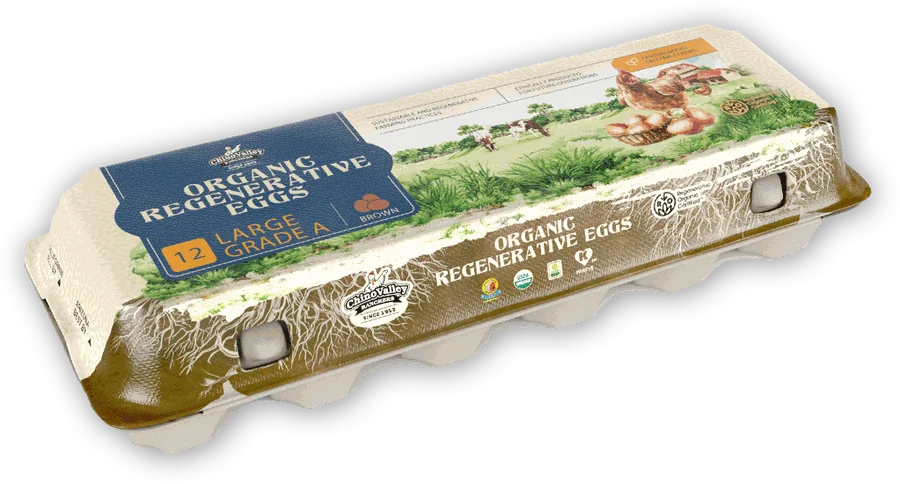
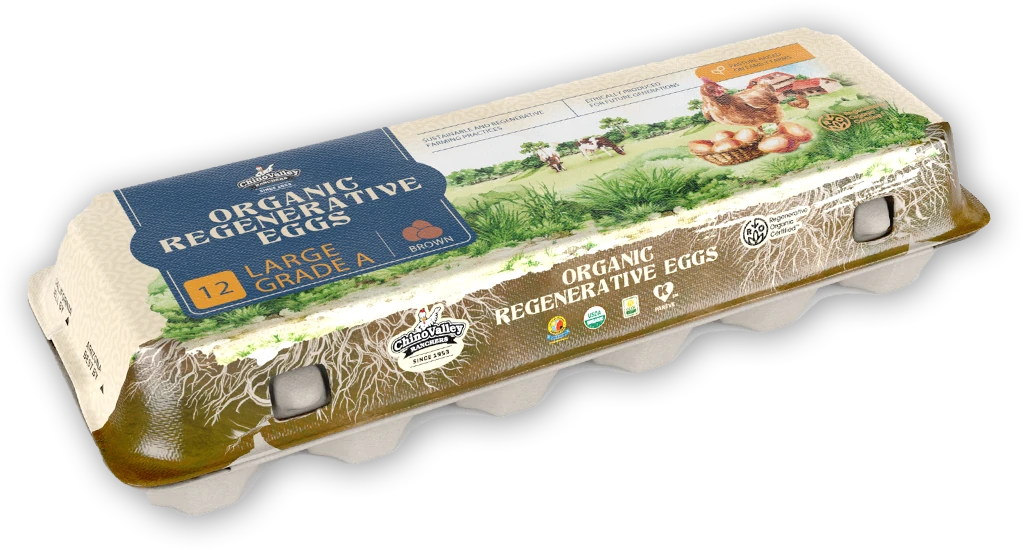
Regenerative WI-21: polish batch
- Hero: bg-[#006088] (a no-op in Tailwind 2.2.19) replaced with an inline
  background; 1200w hero photo via srcSet for phones, fetchpriority=high.
- carton.webp re-exported at 1023x550 from the .fig source (same crop as
  the 900w file, alpha identical when resized; placements unchanged).
- Section 2 arrows loading=lazy: no longer downloaded on phones, where hidden.
  sec2test's artwork check scoped to shown arrows.
- Photo row: the stacked pair's photograph painted once on their column, so
  the windows show adjacent slices (114 of 150 source rows repeated at 390).
  sec5test/sec5tilestest read the painting element; the cover check no
  longer passes on NaN.
- sections.py: band 8 is 7039..7686 (was a plane starting in section 7);
  leaves assigned to one band by core (36 were double-counted).
  regenerative-geometry.md regenerated.
New secpolishtest.js.

Deferred: desktop standards body size (gated), phone video caption (Q13),
footer/nav tap targets (Q11), photo-row top tear (low confidence).

Claude-Session: https://claude.ai/code/session_01LWByyercuKycdp4f9PRau2

diff --git a/scripts/qa/regen/secpolishtest.js b/scripts/qa/regen/secpolishtest.js
@@ -1,0 +1,52 @@
+// Review item WI-21: the independent polish batch.
+const { chromium } = require('playwright');
+const R=[];const ck=(n,p,d='')=>{R.push(p);console.log(`${p?'PASS':'FAIL'}  ${n}${d?' — '+d:''}`)};
+(async()=>{
+  const b=await chromium.launch();
+  for(const [w,dpr] of [[390,3],[1440,2]]){
+    const p=await b.newContext({viewport:{width:w,height:900},deviceScaleFactor:dpr}).then(c=>c.newPage());
+    const reqs=[];p.on('request',r=>reqs.push(r.url()));
+    await p.goto('http://localhost:7500/regenerative',{waitUntil:'networkidle',timeout:60000});
+    await p.getByRole('region',{name:/cookie consent/i}).getByRole('button',{name:/reject all/i}).click().catch(()=>{});
+    const hh=await p.evaluate(()=>document.body.scrollHeight);
+    for(let y=0;y<hh;y+=600){await p.evaluate(v=>scrollTo(0,v),y);await p.waitForTimeout(60);}
+    await p.waitForTimeout(800);
+    const m=await p.evaluate(()=>{
+      const hero=document.querySelector('img[src*="hero-cattle"]');
+      const carton=document.querySelector('.regen-hero-carton');
+      // Photo-row stacked pair: which rows of the shared photograph does each
+      // window show? The photo is painted by the window or by its column.
+      const wins=[...document.querySelectorAll('[role="img"]')].filter(e=>/ranging among trees|plumage/i.test(e.getAttribute('aria-label')));
+      const rows=wins.map(win=>{
+        const painter=/row-hen-c/.test(getComputedStyle(win).backgroundImage)?win:win.parentElement;
+        const cs=getComputedStyle(painter), E=painter.getBoundingClientRect(), W=win.getBoundingClientRect();
+        const imgW=E.width*parseFloat(cs.backgroundSize)/100, scale=imgW/1306, imgH=734*scale;
+        const off=(E.height-imgH)*parseFloat(cs.backgroundPositionY)/100;
+        return [(W.top-E.top-off)/scale,(W.bottom-E.top-off)/scale];
+      });
+      const shared=rows.length===2?Math.max(0,Math.min(rows[0][1],rows[1][1])-Math.max(rows[0][0],rows[1][0])):-1;
+      return {heroBg:getComputedStyle(hero.closest('section')).backgroundColor,
+        heroW:hero.naturalWidth, heroSrc:(hero.currentSrc||'').split('/').pop(),
+        prio:hero.getAttribute('fetchpriority'),
+        cartonW:carton.naturalWidth,
+        arrows:[...document.querySelectorAll('img[src*="arrow-hear"],img[src*="arrow-more"]')].map(a=>({src:a.getAttribute('src').split('/').pop(),shown:getComputedStyle(a).display!=='none',ok:a.complete&&a.naturalWidth>0,lazy:a.getAttribute('loading')})),
+        shared:Math.round(shared), wins:wins.length};
+    });
+    console.log(`\n  --- ${w}px DPR${dpr} ---`);
+    ck(`hero section paints its own blue at ${w}`, m.heroBg==='rgb(0, 96, 136)', m.heroBg);
+    ck(`hero photo marked fetchpriority=high`, m.prio==='high', String(m.prio));
+    // By the file chosen, not naturalWidth: with a srcset that reports the
+    // density-corrected size (1440 at 1440), not the file's pixels.
+    if(w===390) ck('phone downloads the 1200w hero photo', m.heroSrc==='hero-cattle-1200.jpg', m.heroSrc);
+    else ck('desktop keeps the full-size hero photo', m.heroSrc==='hero-cattle.jpg', m.heroSrc);
+    ck(`carton from the 1023px source at ${w}`, m.cartonW===1023, `${m.cartonW}w`);
+    const arrowReqs=reqs.filter(u=>/arrow-(hear|more)\.png/.test(u));
+    if(w===390) ck('hidden annotation arrows are not downloaded on a phone', arrowReqs.length===0, arrowReqs.map(u=>u.split('/').pop()).join(','));
+    else ck('annotation arrows load where they are shown', m.arrows.length===2&&m.arrows.every(a=>a.shown&&a.ok), JSON.stringify(m.arrows.map(a=>a.ok)));
+    ck(`stacked photo windows show different parts of the shot at ${w}`, m.wins===2&&m.shared===0, `${m.shared} source rows shared`);
+    await p.close();
+  }
+  await b.close();
+  const f=R.filter(x=>!x).length;
+  console.log(`\n${R.length-f}/${R.length} passed`);
+})();

diff --git a/scripts/qa/regen/sec5tilestest.js b/scripts/qa/regen/sec5tilestest.js
@@ -36,8 +36,13 @@ const R=[];const ck=(n,p,d='')=>{R.push(p);console.log(`${p?'PASS':'FAIL'}  ${n}
                 over:Math.max(g.top-r.top, r.bottom-g.bottom)};
       });
       // Shared shot is 1306x734; size is a % of the window width.
+      // Read from whichever element paints the shot: the window itself, or
+      // (for the stacked pair, WI-21) the column it is an opening onto. Reading
+      // the window alone gave NaN once its own background went, and NaN never
+      // counts as "too thin" -- the check passed with nothing to measure.
       const cover=[...grid.querySelectorAll('[role="img"]')].map(e=>{
-        const r=e.getBoundingClientRect(); const cs=getComputedStyle(e);
+        const painter=/row-hen-c/.test(getComputedStyle(e).backgroundImage)?e:e.parentElement;
+        const r=painter.getBoundingClientRect(); const cs=getComputedStyle(painter);
         const pct=parseFloat(cs.backgroundSize)/100;
         return {rendered:+(r.width*pct*734/1306).toFixed(1), box:+r.height.toFixed(1)};
       });
@@ -46,7 +51,7 @@ const R=[];const ck=(n,p,d='')=>{R.push(p);console.log(`${p?'PASS':'FAIL'}  ${n}
     console.log(`  --- ${w}px (grid ${m.gridH}px tall) ---`);
     const worst=m.tiles.reduce((a,t)=>t.over>a.over?t:a,{over:-1e9});
     ck(`${w}: every tile inside the photo grid`, worst.over<=1, `worst ${worst.name} ${worst.over.toFixed(1)}px past the grid`);
-    const thin=m.cover.filter(c=>c.rendered<c.box-0.5);
+    const thin=m.cover.filter(c=>!(c.rendered>=c.box-0.5));
     ck(`${w}: shared photograph covers every window`, thin.length===0,
        thin.map(c=>`${c.rendered}px drawn in a ${c.box}px window`).join(', ')||'all covered');
     await p.close();

diff --git a/components/regenerative/ImageGrid.js b/components/regenerative/ImageGrid.js
@@ -150,21 +150,22 @@ export function ImageGrid() {
             background-position, so the photograph is continuous behind them. */}
         <div />
 
+        {/* The stacked pair's photograph is painted ONCE, on their column,
+            and the two windows are openings onto it. Painted per window, each
+            fitted its own box: at 390 the boxes are 55px wide and the shot is
+            sized by width, so both windows showed nearly the same rows of it
+            (114 of 150 shared) -- the bird repeated, one above the other. On
+            the column the two are adjacent slices of one picture at every
+            width, which is what the design's single clipping frame does. The
+            1.36fr split between them is covered by the frame's own rule. */}
         <div
           className="grid"
-          style={{ height: BAND, gridTemplateRows: "50.11fr 1.36fr 48.53fr", gap: 0 }}
+          style={{ height: BAND, gridTemplateRows: "50.11fr 1.36fr 48.53fr", gap: 0,
+                   ...SHOT("481.92%", "24.06%", "61%") }}
         >
-          <div
-            role="img"
-            aria-label="Hens ranging among trees"
-            style={SHOT("481.92%", "24.06%", "34.96%")}
-          />
+          <div role="img" aria-label="Hens ranging among trees" />
           <div />
-          <div
-            role="img"
-            aria-label="A hen's plumage in close detail"
-            style={SHOT("481.92%", "24.06%", "78.42%")}
-          />
+          <div role="img" aria-label="A hen's plumage in close detail" />
         </div>
 
         <div />

diff --git a/components/regenerative/Hero.js b/components/regenerative/Hero.js
@@ -13,7 +13,12 @@ import { TornEdge } from './TornEdge';
    lettering needs no artwork. */
 export function RegenerativeHero() {
   return (
-    <section className="relative overflow-hidden bg-[#006088]">
+    <section
+      className="relative overflow-hidden"
+      /* Inline, not bg-[#006088]: Tailwind 2.2.19 has no arbitrary values, so
+         that class compiled to nothing and the section was transparent. */
+      style={{ backgroundColor: "#006088" }}
+    >
       {/* Everything in this band is positioned from the Figma node tree
           (file muIeDVJN5mgz3Ep0hualTF, artboard 5:5 = 2075 x 8469), as a
           percentage of the artboard WIDTH so the whole composition scales
@@ -67,6 +72,13 @@ export function RegenerativeHero() {
             opaque, and .regen-hero-photo starts the photograph under it. */}
         <img
           src="/images/regen/hero-cattle.jpg"
+          /* A 1200w source for phones: at 390 DPR3 the full 2376px photo was
+             downloaded for a 1170px need. fetchpriority is lowercase because
+             React 18 passes unknown lowercase attributes through but warns on
+             fetchPriority. It is the page's LCP image. */
+          srcSet="/images/regen/hero-cattle-1200.jpg 1200w, /images/regen/hero-cattle.jpg 2376w"
+          sizes="100vw"
+          fetchpriority="high"
           alt=""
           aria-hidden="true"
           className="absolute inset-0 w-full h-full object-cover regen-hero-photo"

diff --git a/scripts/qa/regen/sec2test.js b/scripts/qa/regen/sec2test.js
@@ -29,7 +29,9 @@ const R=[];const ck=(n,p,d='')=>{R.push(p);console.log(`${p?'PASS':'FAIL'}  ${n}
               framePct:+(fr.width/innerWidth*100).toFixed(1),
               aspect:+(fr.width/fr.height).toFixed(3),
               stillOK:still.complete&&still.naturalWidth>0,
-              anns:anns.length, annOK:arrows.length===2&&arrows.every(a=>a.complete&&a.naturalWidth>0),
+              anns:anns.length, // Shown arrows must load. Hidden ones are loading="lazy" and are
+              // deliberately never fetched on a phone (WI-21, secpolishtest).
+              annOK:arrows.length===2&&arrows.every(a=>getComputedStyle(a).display==='none'||(a.complete&&a.naturalWidth>0)),
               annVisible:anns.filter(a=>a.getBoundingClientRect().width>0).length,
               // "You want more?" sits on the paper OUTSIDE the frame in the
               // design, with a small gap past the right edge. Assert the

diff --git a/scripts/qa/regen/sec5test.js b/scripts/qa/regen/sec5test.js
@@ -47,7 +47,10 @@ const R = []; const ck = (n, p, d = '') => { R.push(p); console.log(`${p ? 'PASS
         // bird consistent -- they differ only because the boxes differ
         windowsShareShot:(()=>{const w=[...row.querySelectorAll('[role="img"]')];
           if(w.length!==3) return false;
-          return w.every(d=>/row-hen-c/.test(getComputedStyle(d).backgroundImage));})(),
+          // The window or the column it opens onto (the stacked pair share
+          // one painted shot on their column -- WI-21).
+          return w.every(d=>/row-hen-c/.test(getComputedStyle(d).backgroundImage)
+                         || /row-hen-c/.test(getComputedStyle(d.parentElement).backgroundImage));})(),
         // the frame draws its own gutters; a grid gap on top of them is what
         // stood proud of the row
         gridGap: (()=>{const g=row.querySelector('.grid');

diff --git a/components/regenerative/WhatIs.js b/components/regenerative/WhatIs.js
@@ -172,6 +172,7 @@ export function WhatIs() {
             </div>
             <img
               src="/images/regen/arrow-hear.png"
+              loading="lazy"
               alt=""
               aria-hidden="true"
               className="absolute hidden sm:block"
@@ -204,6 +205,7 @@ export function WhatIs() {
           </div>
           <img
             src="/images/regen/arrow-more.png"
+            loading="lazy"
             alt=""
             aria-hidden="true"
             className="absolute hidden md:block"

diff --git a/scripts/qa/regen/fig/sections.py b/scripts/qa/regen/fig/sections.py
@@ -4,8 +4,18 @@ import sys; sys.path.insert(0,_HERE)
 from geom import *
 
 # Section seams read off the full-width background planes. Each entry is
-# (y_start, y_end, label). Ends are the next section's start, so the bands
-# tile the artboard with no gaps.
+# (y_start, y_end, label): the extent of the band's own background plane.
+# Those planes overlap -- each runs under its neighbours' torn edges -- so the
+# extents do NOT tile the artboard, and a leaf assigned by "centre inside the
+# extent" landed in two bands at every seam (36 leaves double-counted). Leaves
+# are now assigned by in_band below, against the band's CORE: its start to the
+# next band's start. Extents are still what the report measures against.
+#
+# Band 8 was (6441, 7951), read off "Layer 2 copy 4", a plane that starts
+# inside section 7: it put the callouts and the eggs photo in the pre-footer
+# and gave it a 1510px height. The pre-footer's own band is 7039..7686 (647px,
+# aspect 3.21 -- 449px at 1440, so the built 432px is about 4% short, not the
+# +4.9% the old table implied). Review item WI-21.
 SEAMS = [
     (   0.0, 1326.0, '1  HERO'),
     ( 802.0, 2165.0, '2  WHAT IS REGENERATIVE'),
@@ -14,7 +24,7 @@ SEAMS = [
     (3808.0, 4592.0, '5  PHOTO ROW'),
     (4275.0, 5718.0, '6  HIGHEST STANDARDS'),
     (5513.0, 6988.5, '7  WHAT MAKES REGEN DIFFERENT'),
-    (6441.0, 7951.0, '8  PRE FOOTER'),
+    (7039.0, 7686.0, '8  PRE FOOTER'),
     (7686.0, 8481.0, '9  FOOTER'),
 ]
 
@@ -31,7 +41,16 @@ def all_leaves():
                         type=n.get('type'),id=d))
     return sorted(out,key=lambda r:(r['y'],r['x']))
 
+def core(y0):
+    """The band starting at y0 owns y0 up to the next band's start."""
+    starts = sorted(b[0] for b in SEAMS)
+    nxt = [v for v in starts if v > y0]
+    return y0, (nxt[0] if nxt else float('inf'))
+
 def in_band(r, y0, y1):
-    """A leaf belongs to the band its own centre falls inside."""
+    """A leaf belongs to exactly one band: the one whose core holds its
+    centre. y1 is accepted for the callers' signature but the extent is not
+    used for assignment -- extents overlap."""
+    c0, c1 = core(y0)
     cy = r['y'] + r['h']/2
-    return y0 <= cy < y1
+    return c0 <= cy < c1

diff --git a/docs/regenerative-geometry.md b/docs/regenerative-geometry.md
@@ -6,64 +6,6 @@ Do not hand-edit; re-run the script instead.
 Artboard **2075 x 8469**. All raw numbers are design pixels.
 
 
-## How this was produced
-
-The Figma MCP is unavailable on this engagement: the account holds a View seat
-on the client's Professional plan, which allows 6 tool calls per *month*, and
-they are spent. So the geometry comes from the `.fig` itself.
-
-`canvas.fig` is a fig-kiwi container -- 8-byte magic, uint32 version, then
-length-prefixed blocks. Block 0 is the schema as raw zlib (-15 window); block 1
-is the document as ZSTD. `strings` finds nothing in either, which is not
-evidence they cannot be read. Kiwi encodes floats as the IEEE bits rotated LEFT
-by 9, so the exponent lands in the first byte and a lone 0x00 encodes 0.0;
-decoded as plain little-endian floats they come out around 1e33, which reads as
-a corrupt file rather than a codec mismatch.
-
-Section seams come from the full-width background planes (`Layer 52`,
-`Layer 53`, `Bg shape`, `TEXTURE BG` and friends), not the frame hierarchy --
-the band frames are oversized clipping wrappers, several spanning most of the
-artboard, so their own x/y/w/h say nothing about where a section sits. Each leaf
-is filed under the band its centre falls in. Bands overlap on purpose, because
-the torn paper edges straddle the seams.
-
-**Validation:** this file independently reproduces every value derived by hand
-for section 2 -- frame strokes at 53.69% and 53.98%, video frame 54.70%, heading
-74.07%, "You want more?" at x1608 against a frame edge at x1605. Those were
-confirmed correct in the browser before this document existed.
-
-## Reading the numbers
-
-`w%` is a share of the artboard width and goes straight into CSS. `top%` and
-`h%` are shares of the band's own height. Do not cross the two: a percentage
-`top` resolves against the container's HEIGHT, so design Y values expressed as a
-share of artboard *width* land high by exactly the band's aspect ratio. That one
-error put every element in the hero too high on the first build.
-
-Sizing needs both dimensions. Section 2's annotation lockups sat at the correct
-left/top/width for four rounds while being 1.7x too tall, because nothing
-asserted height. Check `h%` as well as `w%`.
-
-## Where the build currently stands
-
-Live section height / design height, measured at 1440 (see `scripts/qa/regen/`):
-
-| section | design h/2075 | live | match |
-|---|--:|--:|--:|
-| 1 Hero | 0.639 | 0.633 | 99% |
-| 2 What is Regenerative | 0.657 | 0.516 | 79% |
-| 3 Regen Agriculture | 0.608 | 0.366 | 60% |
-| 4 The Next Generation | 0.657 | 0.479 | 73% |
-| 5 Photo Row | 0.378 | 0.135 | 36% |
-| 6 Highest Standards | 0.695 | 0.528 | 76% |
-| 7 What Makes Regen Different | 0.711 | 0.832 | 86% (too tall) |
-| 8 Pre Footer | 0.728 | 0.300 | 41% |
-
-Only the hero is within tolerance. Sections 3-9 were built from the flattened
-render with width-only checks, and every one of them is materially short except
-section 7, which overshoots. These are vertical-rhythm errors, not content
-errors -- the sections are all present, they are compressed.
-
 ## 1  HERO
 
 Band y 0..1326, height **1326** (artboard/band aspect 1.565).
@@ -91,12 +33,6 @@ Share of artboard: top 0.00%, height 15.66%.
 | welcome to | TEXT | 738 | 336 | 500 | 59 | 35.57 | 24.10 | 25.35 | 4.45 |
 | Rectangle 9 | VECTOR | 708 | 543 | 742 | 70 | 34.12 | 35.76 | 40.95 | 5.28 |
 | Organic Regenerative Eggs | TEXT | 722 | 557 | 750 | 45 | 34.80 | 36.14 | 41.97 | 3.39 |
-| new carton | ROUNDED_RECTANGLE | 560 | 591 | 1023 | 550 | 26.99 | 49.30 | 44.57 | 41.48 |
-| new carton | ROUNDED_RECTANGLE | 587 | 617 | 965 | 491 | 28.29 | 46.51 | 46.53 | 37.03 |
-| Layer 28 copy 2 | ROUNDED_RECTANGLE | 319 | 934 | 206 | 226 | 15.37 | 9.93 | 70.44 | 17.04 |
-| Shape 5 | VECTOR | 1618 | 948 | 208 | 196 | 77.99 | 10.03 | 71.53 | 14.81 |
-| Shape 6 | VECTOR | 1375 | 961 | 203 | 164 | 66.25 | 9.78 | 72.46 | 12.34 |
-| What is regenerative? | TEXT | 257 | 1165 | 1537 | 93 | 12.38 | 74.07 | 87.84 | 7.01 |
 
 ## 2  WHAT IS REGENERATIVE
 
@@ -122,9 +58,6 @@ Share of artboard: top 9.47%, height 16.09%.
 | Shape 4 copy 4 | VECTOR | 1172 | 1543 | 143 | 129 | 56.48 | 6.89 | 54.36 | 9.47 |
 | Layer 77 | ROUNDED_RECTANGLE | 994 | 1600 | 167 | 167 | 47.90 | 8.05 | 58.55 | 12.25 |
 | Ellipse 5 | VECTOR | 1002 | 1609 | 143 | 143 | 48.29 | 6.89 | 59.21 | 10.49 |
-| You want more? | TEXT | 1608 | 1818 | 166 | 132 | 77.48 | 8.00 | 74.54 | 9.68 |
-| Shape 4 copy 2 | VECTOR | 1629 | 1946 | 97 | 161 | 78.51 | 4.68 | 83.93 | 11.81 |
-| Layer 45 | ROUNDED_RECTANGLE | 472 | 1975 | 1114 | 37 | 22.75 | 53.69 | 86.06 | 2.71 |
 
 ## 3  REGEN AGRICULTURE
 
@@ -150,14 +83,6 @@ Share of artboard: top 21.10%, height 14.90%.
 | Rounded Rectangle 1 copy 4 | VECTOR | 1347 | 2417 | 504 | 365 | 64.92 | 24.27 | 49.92 | 28.92 |
 | Layer 21 | ROUNDED_RECTANGLE | 1328 | 2418 | 691 | 365 | 64.00 | 33.30 | 50.00 | 28.92 |
 | purchase  our organic regenerative egg | TEXT | 1400 | 2460 | 389 | 280 | 67.49 | 18.75 | 53.32 | 22.19 |
-| is a collection of practices that focu | TEXT | 388 | 2498 | 844 | 392 | 18.71 | 40.67 | 56.35 | 31.08 |
-| Layer 46 | ROUNDED_RECTANGLE | 1347 | 2534 | 504 | 248 | 64.92 | 24.29 | 59.19 | 19.65 |
-| Layer 26 copy 2 | ROUNDED_RECTANGLE | 674 | 2538 | 323 | 415 | 32.48 | 15.57 | 59.51 | 32.88 |
-| Layer 26 | ROUNDED_RECTANGLE | -36 | 2668 | 371 | 490 | -1.73 | 17.88 | 69.81 | 38.83 |
-| Layer 26 copy 4 | ROUNDED_RECTANGLE | 1325 | 2673 | 371 | 490 | 63.86 | 17.88 | 70.21 | 38.83 |
-| Shape 4 copy 3 | VECTOR | 1697 | 2717 | 97 | 161 | 81.79 | 4.67 | 73.69 | 12.76 |
-| Layer 50 | ROUNDED_RECTANGLE | -1 | 2828 | 2078 | 221 | -0.05 | 100.14 | 82.49 | 17.51 |
-| Get ‘em here! | TEXT | 1673 | 2865 | 198 | 88 | 80.63 | 9.54 | 85.45 | 6.97 |
 
 ## 4  THE NEXT GENERATION
 
@@ -206,9 +131,6 @@ Share of artboard: top 44.96%, height 9.26%.
 | Rectangle 10 copy 7 | VECTOR | 526 | 3987 | 271 | 222 | 25.35 | 13.06 | 22.83 | 28.32 |
 | Rectangle 10 copy 6 | VECTOR | 803 | 3987 | 292 | 443 | 38.70 | 14.07 | 22.83 | 56.51 |
 | Rectangle 10 copy 6 | VECTOR | 803 | 3987 | 292 | 443 | 38.70 | 14.07 | 22.83 | 56.51 |
-| Rectangle 10 copy 3 | VECTOR | 526 | 4215 | 271 | 215 | 25.35 | 13.06 | 51.91 | 27.42 |
-| Rectangle 10 copy 3 | VECTOR | 526 | 4215 | 271 | 215 | 25.35 | 13.06 | 51.91 | 27.42 |
-| highest standards | TEXT | 379 | 4536 | 1315 | 93 | 18.26 | 63.37 | 92.82 | 11.86 |
 
 ## 6  HIGHEST STANDARDS
 
@@ -228,8 +150,6 @@ Share of artboard: top 50.48%, height 17.04%.
 | Regen Organic Cert | VECTOR | 360 | 4970 | 569 | 218 | 17.37 | 27.41 | 48.15 | 15.11 |
 | Shape 4 copy | VECTOR | 958 | 5039 | 77 | 114 | 46.16 | 3.71 | 52.93 | 7.87 |
 | We’re certified! | TEXT | 915 | 5197 | 252 | 88 | 44.11 | 12.14 | 63.90 | 6.10 |
-| WHAT MAKES | TEXT | 712 | 5513 | 692 | 79 | 34.32 | 33.35 | 85.79 | 5.47 |
-| Regenerative copy 2 | TEXT | 592 | 5552 | 947 | 163 | 28.55 | 45.64 | 88.50 | 11.30 |
 
 ## 7  WHAT MAKES REGEN DIFFERENT
 
@@ -262,30 +182,18 @@ Share of artboard: top 65.10%, height 17.42%.
 
 ## 8  PRE FOOTER
 
-Band y 6441..7951, height **1510** (artboard/band aspect 1.374).
-Share of artboard: top 76.05%, height 17.83%.
+Band y 7039..7686, height **647** (artboard/band aspect 3.207).
+Share of artboard: top 83.11%, height 7.64%.
 
 | layer | type | x | y | w | h | x% | w% | top% | h% |
 |---|---|--:|--:|--:|--:|--:|--:|--:|--:|
-| eggs open copy | ROUNDED_RECTANGLE | -681 | 5892 | 1704 | 1885 | -32.82 | 82.12 | -36.36 | 124.83 |
-| Farming for Tomorrow | TEXT | 1662 | 6420 | 249 | 74 | 80.11 | 12.00 | -1.37 | 4.90 |
-| Layer 2 copy 4 | ROUNDED_RECTANGLE | -8 | 6441 | 2398 | 1266 | -0.39 | 115.57 | 0.00 | 83.84 |
-| Layer 2 copy 4 | ROUNDED_RECTANGLE | -8 | 6441 | 2398 | 1266 | -0.39 | 115.57 | 0.00 | 83.84 |
-| Regenerative farming isn’t just about  | TEXT | 1639 | 6515 | 306 | 248 | 78.99 | 14.73 | 4.87 | 16.40 |
-| Living Roots | TEXT | 150 | 6525 | 257 | 32 | 7.24 | 12.39 | 5.59 | 2.12 |
-| Keeping living roots in the ground yea | TEXT | 124 | 6591 | 310 | 247 | 5.98 | 14.95 | 9.91 | 16.37 |
-| BETTER FOR THE LAND.  BETTER FOR OUR H | TEXT | 743 | 6752 | 602 | 237 | 35.80 | 29.01 | 20.57 | 15.70 |
-| Rectangle 12 | VECTOR | 750 | 6827 | 575 | 4 | 36.14 | 27.71 | 25.56 | 0.26 |
-| Rectangle 12 copy | VECTOR | 750 | 6906 | 575 | 4 | 36.14 | 27.71 | 30.79 | 0.26 |
-| TEXTURE BG | ROUNDED_RECTANGLE | -47 | 7039 | 2437 | 912 | -2.27 | 117.45 | 39.60 | 60.40 |
-| Our regenerative eggs  are pasture Rai | TEXT | 990 | 7177 | 878 | 183 | 47.69 | 42.31 | 48.73 | 12.12 |
-| Sustainable And Regenerative Farming P | TEXT | 1048 | 7389 | 743 | 366 | 50.51 | 35.81 | 62.80 | 24.22 |
-| Rectangle 11 | VECTOR | 1082 | 7512 | 675 | 5 | 52.14 | 32.53 | 70.93 | 0.33 |
-| Layer 63 | ROUNDED_RECTANGLE | 502 | 7650 | 265 | 68 | 24.19 | 12.77 | 80.07 | 4.50 |
-| Layer 64 | ROUNDED_RECTANGLE | 149 | 7668 | 1224 | 405 | 7.18 | 58.99 | 81.26 | 26.82 |
-| Vector Smart Object copy 2 | ROUNDED_RECTANGLE | 336 | 7747 | 264 | 175 | 16.19 | 12.72 | 86.49 | 11.59 |
-|  Contact CVR   331 W. Citrus Street, C | TEXT | 1313 | 7759 | 364 | 169 | 63.28 | 17.54 | 87.29 | 11.19 |
-| Our Story        Our Eggs         Reci | TEXT | 823 | 7768 | 133 | 218 | 39.67 | 6.41 | 87.88 | 14.44 |
+| Layer 2 copy 4 | ROUNDED_RECTANGLE | -8 | 6441 | 2398 | 1266 | -0.39 | 115.57 | -92.43 | 195.67 |
+| Layer 2 copy 4 | ROUNDED_RECTANGLE | -8 | 6441 | 2398 | 1266 | -0.39 | 115.57 | -92.43 | 195.67 |
+| TEXTURE BG | ROUNDED_RECTANGLE | -47 | 7039 | 2437 | 912 | -2.27 | 117.45 | 0.00 | 140.96 |
+| Our regenerative eggs  are pasture Rai | TEXT | 990 | 7177 | 878 | 183 | 47.69 | 42.31 | 21.30 | 28.28 |
+| Sustainable And Regenerative Farming P | TEXT | 1048 | 7389 | 743 | 366 | 50.51 | 35.81 | 54.14 | 56.52 |
+| Rectangle 11 | VECTOR | 1082 | 7512 | 675 | 5 | 52.14 | 32.53 | 73.11 | 0.77 |
+| Layer 63 | ROUNDED_RECTANGLE | 502 | 7650 | 265 | 68 | 24.19 | 12.77 | 94.44 | 10.51 |
 
 ## 9  FOOTER
 
